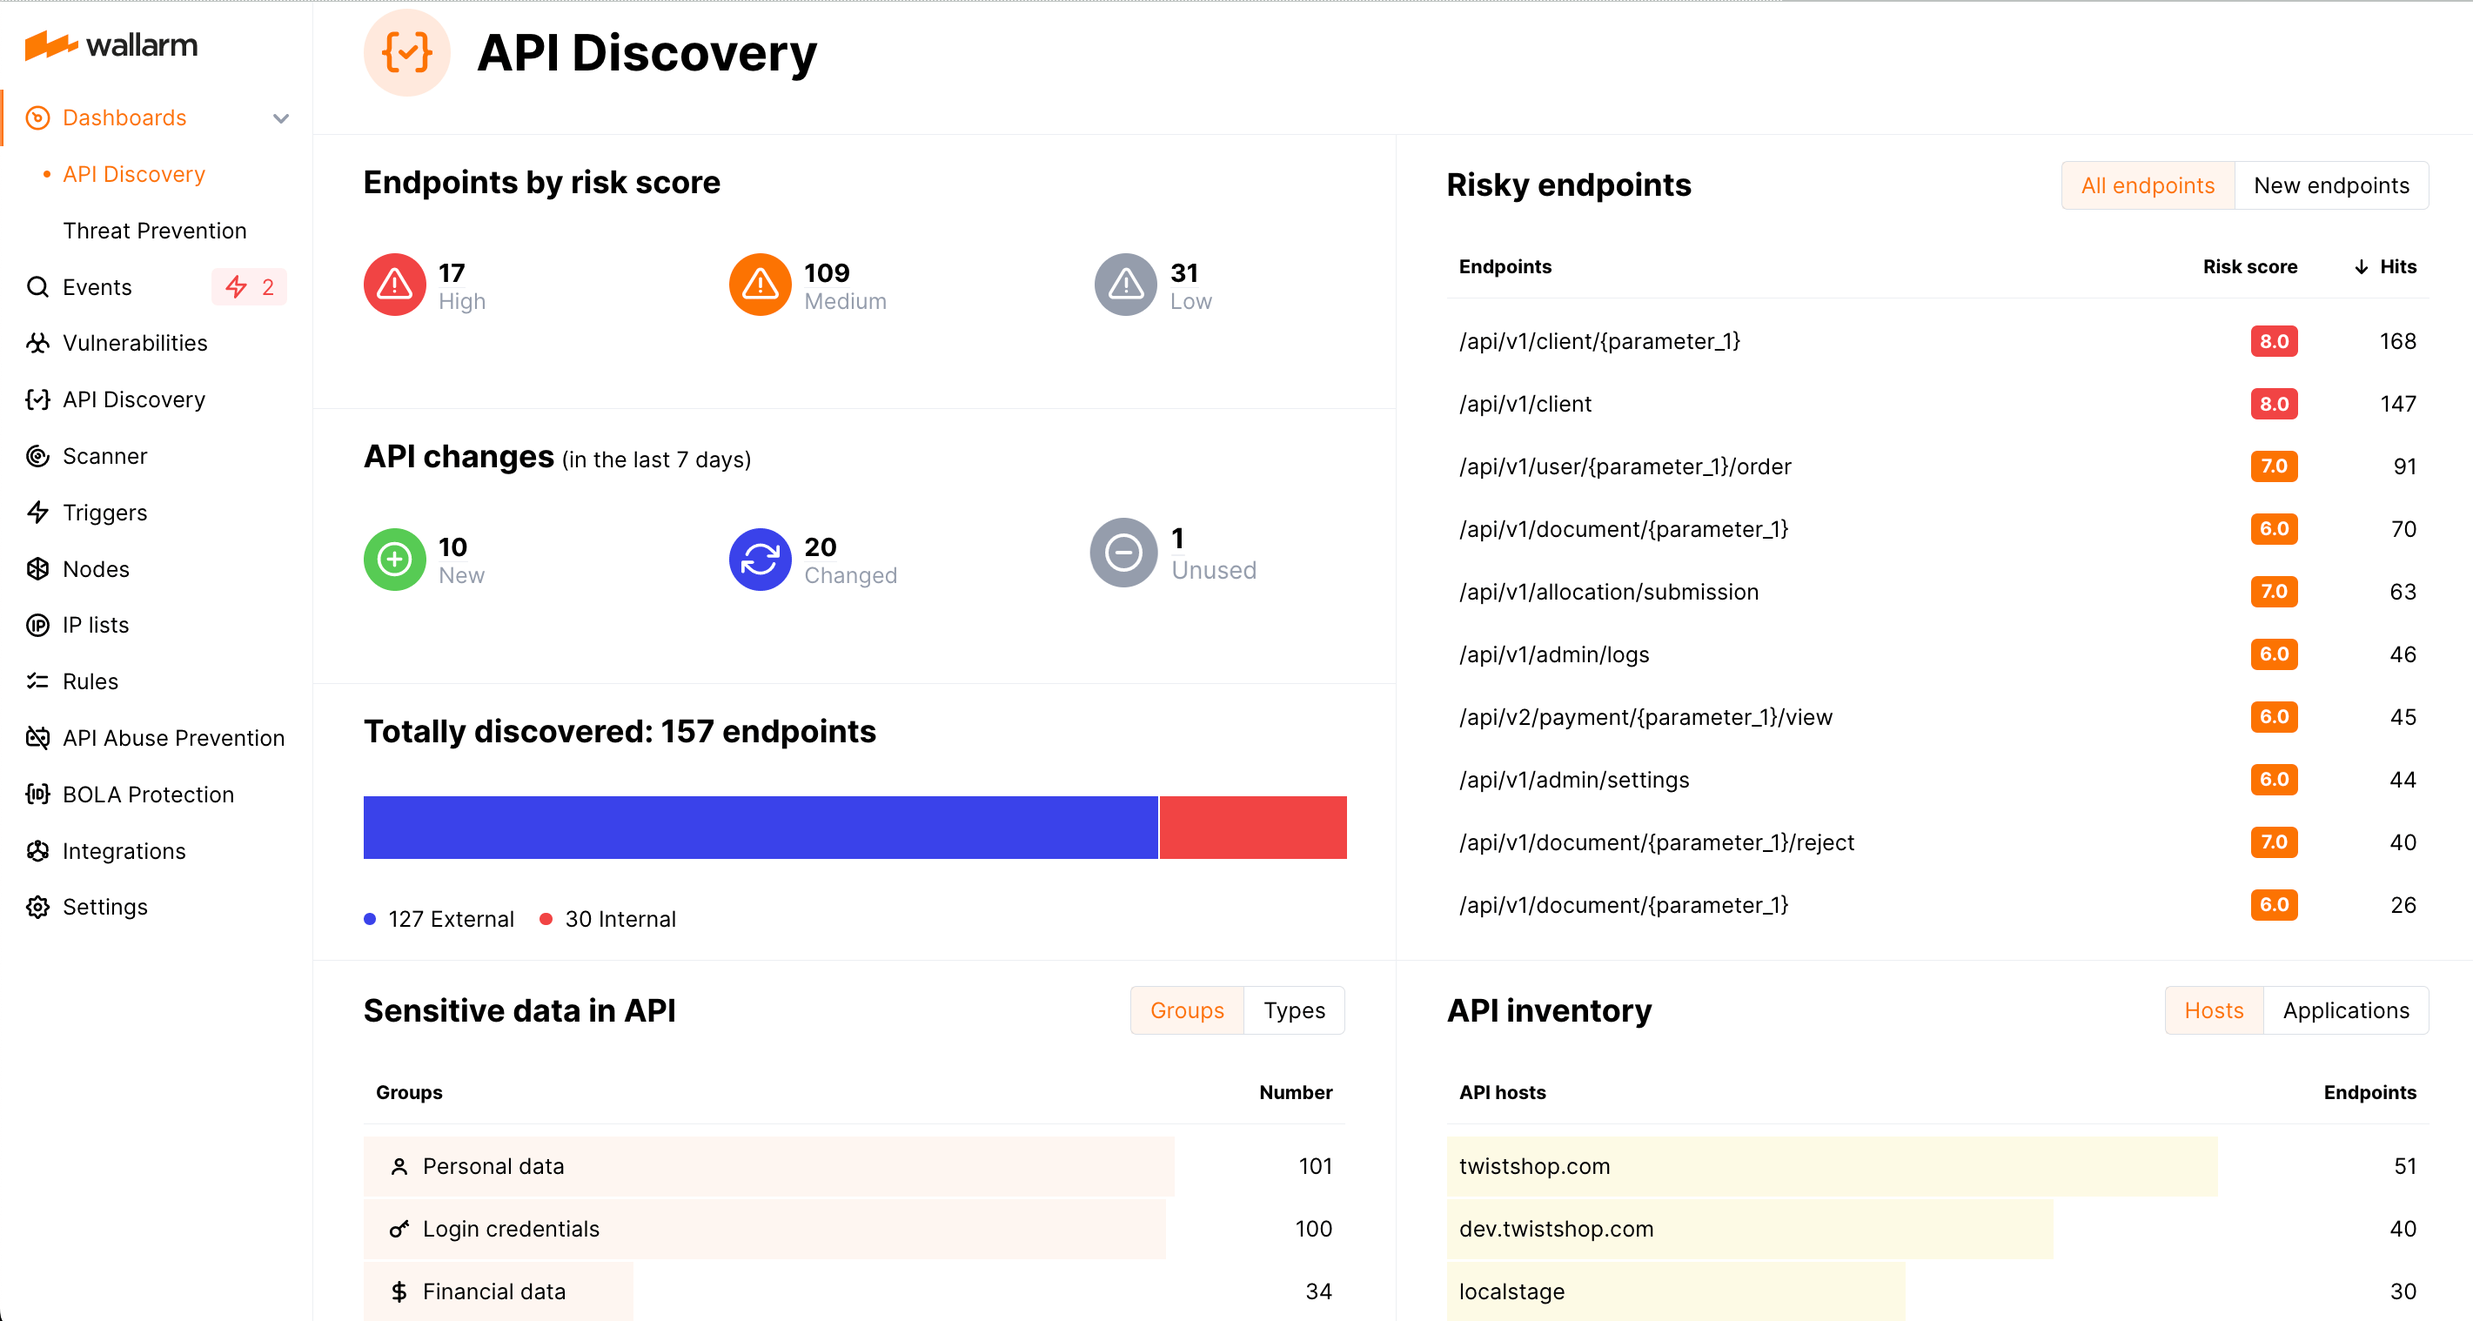
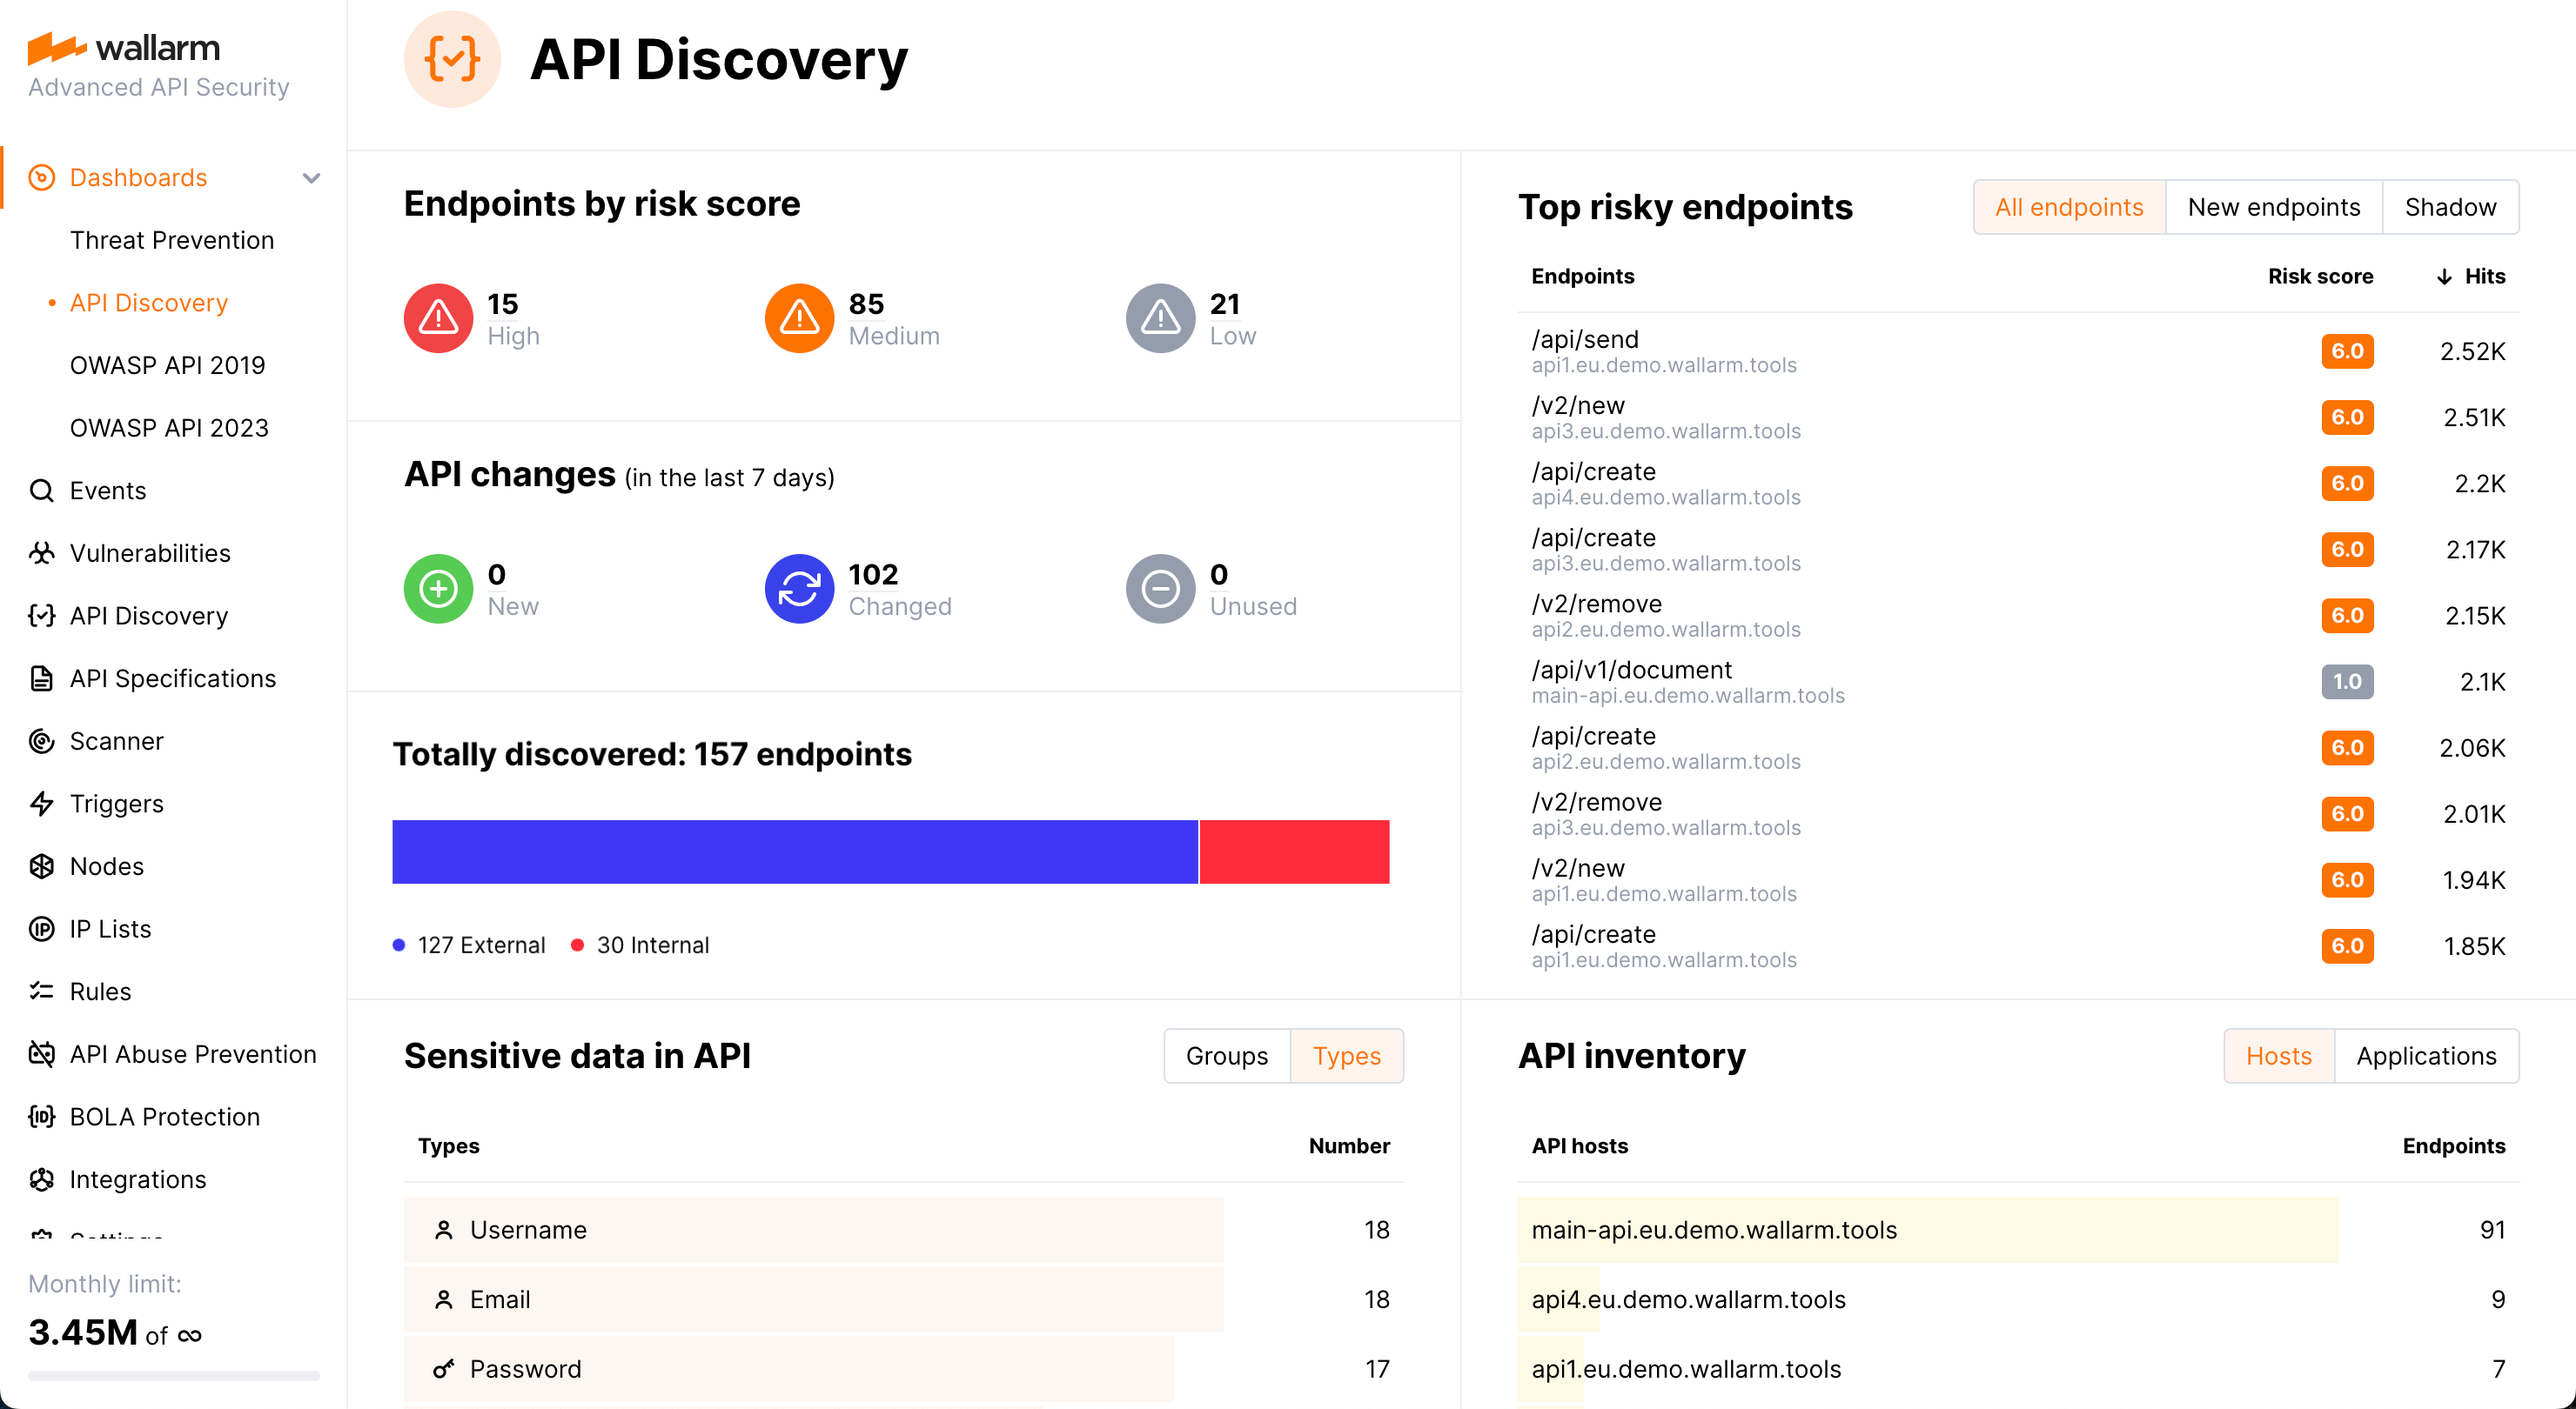
Fix of API Discovery dashboard screenshot/description

diff --git a/docs/latest/user-guides/dashboards/api-discovery.md b/docs/latest/user-guides/dashboards/api-discovery.md
@@ -3,12 +3,27 @@
 The **API Discovery** Wallarm dashboard summarizies data about your API collected by the [API Discovery](../../about-wallarm/api-discovery.md) module. It provides a comprehensive overview of your API inventory based on the metrics:
 
 * Number of endpoints by risk level
-* The [riskiest](../../about-wallarm/api-discovery.md#endpoint-risk-score) endpoints among the whole API inventory and among the newly discovered endpoints in the last 7 days
+* The [top risky](../../about-wallarm/api-discovery.md#endpoint-risk-score) endpoints among the whole API inventory and among the newly discovered endpoints in the last 7 days
 
-    The riskiest endpoints are most likely to be an attack target due to active vulnerabilities and other risk factors. Each risky endpoint is provided with the targeting hit volume. You can sort endpoints either by a risk score or a hit volume (by default).
+    The top risky endpoints are most likely to be an attack target due to active vulnerabilities and other risk factors. Each risky endpoint is provided with the number of targeting hits. 
+    
+    !!! info "Obtain different information on top risky endpoints"
+        
+        New endpoints and [shadow APIs](../../about-wallarm/api-discovery.md#shadow-api) are always considered to be risky.
 
-    [Shadow APIs](../../about-wallarm/api-discovery.md#shadow-api) are always displayed among the riskiest endpoints.
+        You can:
 
+        * Filter endpoints to display:
+
+            * All top risky endpoints (default)
+            * Only top risky new APIs
+            * Only top risky shadow APIs
+
+        * Sort displayed top risky endpoints by:
+            
+            * Number of hits (default)
+            * Their risk score
+        
 * Changes of your API in the last 7 days by type (new, changed, unused APIs)
 * Total number of discovered endpoints and how many of them are external and internal
 * Sensitive data in API by groups (personal, finance, etc.) and by types
